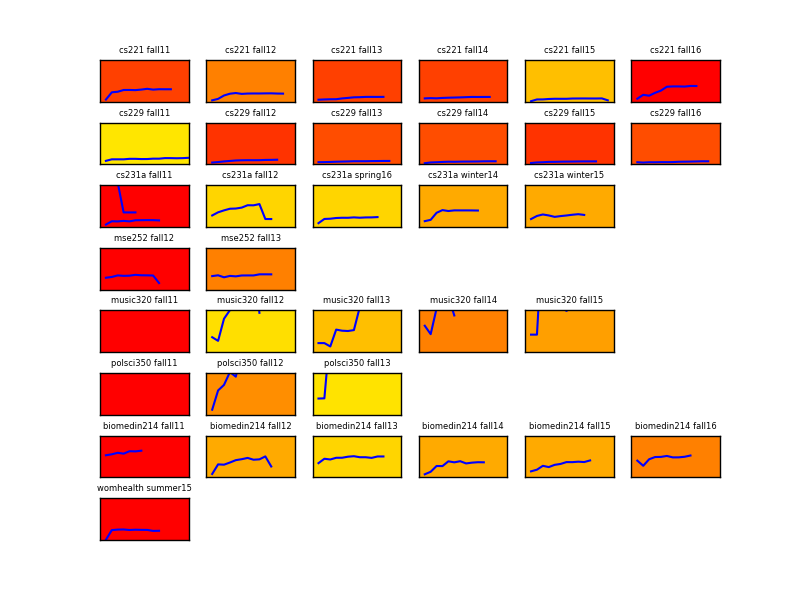
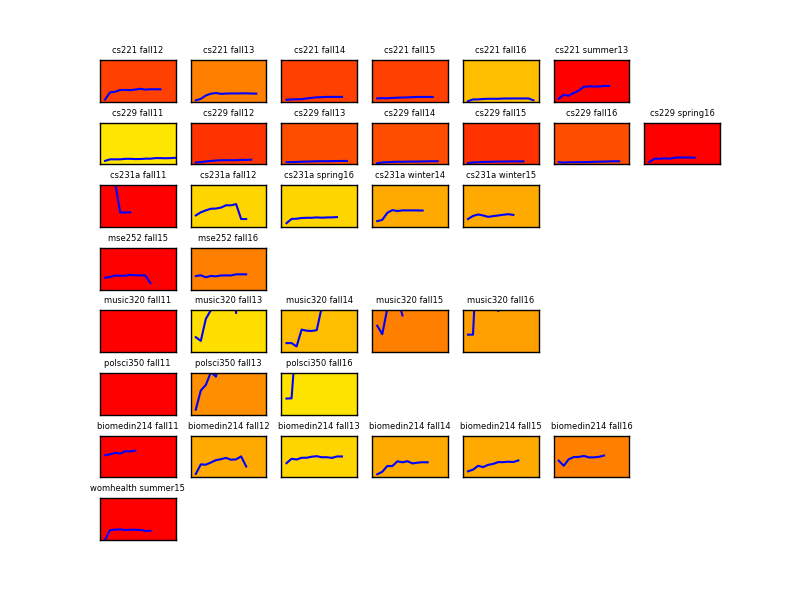
Correct Small multiples plot

diff --git a/src/small_multiples.py b/src/small_multiples.py
@@ -3,9 +3,13 @@ import matplotlib.pyplot as plt
 import sys
 import os
 import csv
+import operator
 import numpy as np
+import matplotlib.patches as mpatches
+
 from os.path import basename, splitext
 from constants import *
+from pylab import *
 
 class smallMultiples:
   def __init__(self, rows, cols):
@@ -16,6 +20,18 @@ class smallMultiples:
               'size'   : 5}
       plt.rc('font', **font)
       plt.subplots_adjust(hspace=0.5)
+      #plt.colorbar()
+      cdict = {'red': ((0.0, 0.0, 0.0),
+                      (0.5, 1.0, 0.7),
+                      (1.0, 1.0, 1.0)),
+              'green': ((0.0, 0.0, 0.0),
+                        (0.5, 1.0, 0.0),
+                        (1.0, 1.0, 1.0)),
+              'blue': ((0.0, 0.0, 0.0),
+                       (0.5, 1.0, 0.0),
+                       (1.0, 0.5, 1.0))}
+      my_cmap = matplotlib.colors.LinearSegmentedColormap('my_colormap',cdict,256)
+      pcolor(rand(10,10),cmap=my_cmap)
 
       # These are the "Tableau 20" colors as RGB.    
       tableau20 = [(31, 119, 180), (174, 199, 232), (255, 127, 14), (255, 187, 120),    
@@ -37,6 +53,7 @@ class smallMultiples:
 
       for root, dirs, files in os.walk('../stats/'+course+'/'):
         for course_dir in dirs:
+            #print course_dir
             top_student_statistics = root + course_dir + '/top_statistics_student.csv'
             f_top_students = open(top_student_statistics,'r')
             reader = csv.DictReader(f_top_students)
@@ -57,7 +74,12 @@ class smallMultiples:
             flattened_y.append(len(y))
 
       normalized_y = [(i-min(flattened_y))/float((max(flattened_y)-min(flattened_y)+1)) for i in flattened_y]
-      return all_x,all_y,names,normalized_y
+
+      color_map = {flattened_y[i]:normalized_y[i] for i in range(len(flattened_y))}
+      sorted_map = sorted(color_map.items(), key=operator.itemgetter(1))
+      sorted_map = [(elem[0],(1,elem[1],0))  for elem in sorted_map]
+      print sorted_map
+      return all_x,all_y,names,normalized_y,flattened_y
 
 
   def plot(self,parameter):
@@ -65,12 +87,20 @@ class smallMultiples:
       k=1
       for course in COURSES:
           print course  
-          k+=6
-          all_x,all_y,names,normalized_y = self.get_files(course, parameter)
+          k+=7
+          all_x,all_y,names,normalized_y,flattened_y = self.get_files(course, parameter)
+          rgb = [(1,normalized_y[i],0) for i in range(len(normalized_y))]
+          # patches = []
+          # for i in range(len(rgb)):
+          #   patches.append(mpatches.Patch(color=rgb[i], label=course+'->'+str(flattened_y[i])))
+          # plt.legend(handles=patches)
+          # print flattened_y, ' : ',rgb
+
 
           for i in range(len(all_x)):
               x = all_x[i]
               y = all_y[i]
+
 
               plt.subplot(self.rows, self.cols, n)
 
@@ -78,7 +108,7 @@ class smallMultiples:
                 plt.axis([0, 15, 0, 0.1])
                 
               elif parameter == 'Weighted Out Degree':
-                plt.axis([0, 13, 0, 100])
+                plt.axis([0, 13, 0, 82])
 
               if not y: 
                 continue
@@ -96,5 +126,5 @@ class smallMultiples:
       plt.show()
 
 if __name__ == "__main__":
-  sm  = smallMultiples(8,6)
-  sm.plot('Weighted Out Degree')
+  sm  = smallMultiples(8,7)
+  sm.plot('Pagerank')
